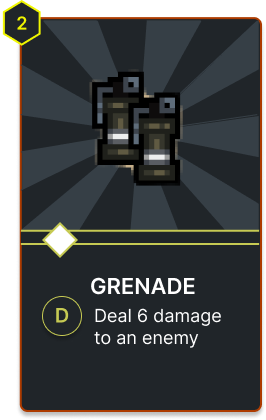
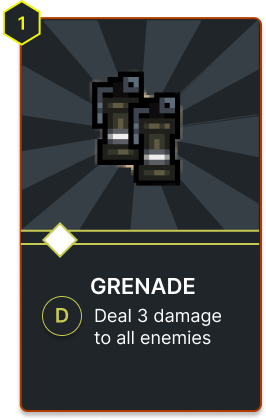
Feat: Damage cards function properly. Added all card sprites.

Changed region(s): [[0.4812, 0.7429, 0.8421, 0.8357], [0.0602, 0.031, 0.1203, 0.0929]]

diff --git a/public/scenes/BattleScene.js b/public/scenes/BattleScene.js
@@ -217,11 +217,13 @@ export class BattleScene extends Phaser.Scene {
     }
 
     damage_calculation(character, damage, modifiers) {
+        // list of 1 for empty modifiers
         for (let modifier of modifiers){
             damage = damage * modifier;
         }
         console.log(damage);
         character.health = character.health - damage;
+        console.log(character.health);
         character.setTint(0xff0000);
         let damage_num = this.add.text(0,0, "-" + damage, {color: "red", fontSize: "30px"});
         damage_num.setPosition(character.x + 40, character.y - 80);
@@ -235,27 +237,75 @@ export class BattleScene extends Phaser.Scene {
 
     loadCards() {
         // damage cards
-        let cannon = new DamageCard("cannon", 1, "damage", {damage: 3, target: "all"}, this, 0, 0, "cannon");
-        let grenade = new DamageCard("grenade", 2, "damage", {damage: 6, target: "single"}, this, 0, 0, "grenade");
+        let cannonball = new DamageCard("cannonball", 1, "damage", {damage: 10, target: "single"}, "blue", this, 0, 0, "cannonball");
+        let grenade = new DamageCard("grenade", 1, "damage", {damage: 3, target: "all"}, "white", this, 0, 0, "grenade");
+        let high_noon = new DamageCard("high_noon", 1, "damage", {damage: 5, target: "single"}, "white", this, 0, 0, "high_noon");
+        let fire_rain = new DamageCard("fire_rain", 3, "damage", {damage: 8, target: "random", randomAmount: 3, discard: 1}, "blue", this, 0, 0, "fire_rain");
+        let minigun = new DamageCard("minigun", 6, "damage", {damage: 4, target: "random", randomAmount: 8}, "orange", this, 0, 0, "minigun");
+        let launcher = new DamageCard("launcher", 2, "damage", {damage: 6, target: "all"}, "blue", this, 0, 0, "launcher");
+        let ballistic = new DamageCard("ballistic", 1, "damage", {damage: this.player.armour, target: "single"}, "white", this, 0, 0, "ballistic");
+        let reinforce = new DamageCard("reinforce", 2, "damage", {damage: 5, target: "single"}, "white", this, 0, 0, "reinforce");
+        let blast = new DamageCard("blast", 2, "damage", {damage: 10, target: "single", cards: 1}, "blue", this, 0, 0, "blast");
+        let missile = new DamageCard("missile", 3, "damage", {damage: 4, target: "random", randomAmount: 4}, "purple", this, 0, 0, "missile");
+        let molotov = new DamageCard("molotov", 3, "damage", {damage: 10, target: "all", discard: 1}, "purple", this, 0, 0, "molotov");
+
+        this.player.deckArray.push(cannonball);
+        this.player.deckArray.push(grenade);
+        this.player.deckArray.push(high_noon);
+        this.player.deckArray.push(fire_rain);
+        this.player.deckArray.push(minigun);
+        this.player.deckArray.push(launcher);
+        this.player.deckArray.push(ballistic);
+        this.player.deckArray.push(reinforce);
+        this.player.deckArray.push(blast);
+        this.player.deckArray.push(missile);
+        this.player.deckArray.push(molotov);
 
         // combo cards
-        let headshot = new ComboCard("headshot", 1, "combo", {target: "damage", effect: "doubles"}, this, 0, 0, "headshot");
-        
+        let headshot = new ComboCard("headshot", 1, "combo", {target: "damage", effect: "multiply", amount: 2}, "white", this, 0, 0, "headshot");
+        let ricochet = new ComboCard("ricochet", 1, "combo", {target: "damage", effect: "convert"}, "white", this, 0, 0, "ricochet");
+        let pinpoint = new ComboCard("pinpoint", 1, "combo", {target: "damage", effect: "multiply", amount: 3}, "blue", this, 0, 0, "pinpoint");
+        let bayonet = new ComboCard("bayonet", 2, "combo", {target: "damage", effect: "addition", amount: 6, sideEffects: -8}, "blue", this, 0, 0, "bayonet");
+        let load = new ComboCard("load", 2, "combo", {cards: 2, discard: 1}, "blue", this, 0, 0, "load");
+        let nanotech = new ComboCard("nanotech", 3, "combo", {target: "healing", effect: "multiply", amount: 2}, "purple", this, 0, 0, "nanotech");
+
+        this.player.deckArray.push(headshot);
+        this.player.deckArray.push(ricochet);
+        this.player.deckArray.push(pinpoint);
+        this.player.deckArray.push(bayonet);
+        this.player.deckArray.push(load);
+        this.player.deckArray.push(nanotech);
+       
         // reload cards
-        let reload = new ReloadCard("reload", 0, "reload", {amount: 2, sideEffects: null}, this, 0, 0, "reload");
-        let overload = new ReloadCard("overload", 0, "reload", {amount: 4, sideEffects: -15}, this, 0, 0, "overload");
+        let reload = new ReloadCard("reload", 0, "reload", {amount: 2}, "white", this, 0, 0, "reload");
+        let overload = new ReloadCard("overload", 0, "reload", {amount: 4, sideEffects: -10}, "purple", this, 0, 0, "overload");
+        let lock_and_load = new ReloadCard("lock_and_load", 0, "reload", {amount: 2, cards: 2}, "blue", this, 0, 0, "lock_and_load");
+        let bandolier = new ReloadCard("bandolier", 0, "reload", {amount: 4}, "blue", this, 0, 0, "bandolier");
+        let holster = new ReloadCard("holster", 0, "reload", {amount: 1, cards: 1}, "white", this, 0, 0, "holster");
+        let ammo_cache = new ReloadCard("ammo_cache", 0, "reload", {amount: 6}, "purple", this, 0, 0, "ammo_cache");
 
-        // healing cards
-        let medkit = new HealingCard("medkit", 0, "healing", {target: "health", amount: 3}, this, 0, 0, "medkit");
-        let kevlar = new HealingCard("kevlar", 1, "healing", {target: "armour", amount: 6}, this, 0, 0, "kevlar");
-
-        this.player.deckArray.push(cannon);
-        this.player.deckArray.push(grenade);
-        this.player.deckArray.push(headshot)
         this.player.deckArray.push(reload);
         this.player.deckArray.push(overload);
+        this.player.deckArray.push(bandolier);
+        this.player.deckArray.push(lock_and_load);
+        this.player.deckArray.push(holster);
+        this.player.deckArray.push(ammo_cache);
+
+        // healing cards
+        let medkit = new HealingCard("medkit", 0, "healing", {target: "health", amount: 7}, "white", this, 0, 0, "medkit");
+        let kevlar = new HealingCard("kevlar", 1, "healing", {target: "armour", amount: 6}, "white", this, 0, 0, "kevlar");
+        let stim_pack = new HealingCard("stim_pack", 1, "healing", {target: "health", amount: 14}, "white", this, 0, 0, "stim_pack");
+        let armour_plate = new HealingCard("armour_plate", 2, "healing", {target: "armour", amount: 10}, "blue", this, 0, 0, "armour_plate");
+        let bourbon = new HealingCard("bourbon", 2, "healing", {target: "health", amount: 30, discard: 1}, "purple", this, 0, 0, "bourbon");
+        let morphine = new HealingCard("morphine", 2, "healing", {target: "health", amount: 8, otherTarget: "armour", otherAmount: 8}, "blue", this, 0, 0, "morphine");
+
         this.player.deckArray.push(medkit);
         this.player.deckArray.push(kevlar);
+        this.player.deckArray.push(stim_pack)
+        this.player.deckArray.push(armour_plate);
+        this.player.deckArray.push(bourbon);
+        this.player.deckArray.push(morphine);
+    
     }
     
    
@@ -348,7 +398,6 @@ export class BattleScene extends Phaser.Scene {
         this.enemy.enemyList.push(hyena);
         this.enemy.enemyList.push(scorpion);
         this.enemy.enemyList.push(gorilla);
-
     }
     
     // spawning in enemies and their life

diff --git a/public/helpers/classes/cards/damageCard.js b/public/helpers/classes/cards/damageCard.js
@@ -1,10 +1,9 @@
-import { gameOptions, enemy } from "../../config.js";
 import HandCard from "./handCard.js";
 import { Tooltip } from "./toolTip.js";
 
 export default class DamageCard extends HandCard {
-    constructor(name, cost, cardType, effect, scene, x, y, sprite) {
-        super(name, cost, cardType, effect, scene, x, y, sprite);
+    constructor(name, cost, cardType, effect, rarity, scene, x, y, sprite) {
+        super(name, cost, cardType, effect, rarity, scene, x, y, sprite);
         this.tooltip = new Tooltip(scene, x+this.displayWidth, y, this.getLabel());
         scene.add.existing(this);
         this.cardInHand(scene);
@@ -16,22 +15,54 @@ export default class DamageCard extends HandCard {
 
     activateCard(scene) {
         let card = this;
-        if (this.effect.target == "single") {
-            for (let i=0; i < scene.enemy.enemyOnScene.length; i++) {
-                scene.enemy.enemyOnScene[i].once("pointerdown", function(pointer) {
-                    this.setHealth(this.getHealth() - card.effect.damage);
-                    this.heartText.setText(this.getHealth());
+        if (this.effect.target === "single") {
+            for (let enemy of scene.enemy.enemyOnScene) {
+                // remove event listener from enemy
+                enemy.removeListener("pointerdown", enemy.clickHandler);
 
-                    for (let j=0; j < scene.enemy.enemyOnScene.length; j++) {
-                        scene.enemy.enemyOnScene[j].input.enabled = false;
-                    }
-                })
+                // flag on enemy to keep track on whether it's being clicked
+                enemy.isBeingClicked = true;
+
+                // add the event listener back to the enemy
+                enemy.clickHandler = this.damageEnemy.bind(this, enemy, scene);
+                enemy.on("pointerdown", enemy.clickHandler);
             }
-        } else if (this.effect.target == "all") {
-            for (let i=0; i < scene.enemy.enemyOnScene.length; i++) {
-                scene.enemy.enemyOnScene[i].setHealth(scene.enemy.enemyOnScene[i].getHealth() - card.effect.damage);
-                scene.enemy.enemyOnScene[i].heartText.setText(scene.enemy.enemyOnScene[i].getHealth());
+
+        } else if (this.effect.target === "all") {
+            for (let enemy of scene.enemy.enemyOnScene) {
+                scene.damage_calculation(enemy, card.effect.damage, [1]);
             }
+
+        } else if (this.effect.target === "random") {
+            for (let i=0; i < this.effect.randomAmount; i++) {
+                let randomIndex = Math.floor(Math.random() * scene.enemy.enemyOnScene.length);
+                let randomEnemy = scene.enemy.enemyOnScene[randomIndex];
+
+                scene.time.delayedCall(250, scene.damage_calculation, [randomEnemy, this.effect.damage, [1]], scene);
+                // check if enemy died between each attack to update list
+            }
+        }
+        // check enemy dead here
+
+        if ("cards" in this.effect) {
+            scene.player.drawCard(this.effect.cards, scene);
+        }
+
+        if ("discard" in this.effect) {
+            scene.player.discardCard(this.effect.discard, scene);
+        }
+    }
+
+    damageEnemy(enemy, scene) {
+        if (enemy.isBeingClicked) {
+            scene.damage_calculation(enemy, this.effect.damage, [1]);
+            enemy.isBeingClicked = false;
+        }
+
+        for (let enemy of scene.enemy.enemyOnScene) {
+            enemy.isBeingClicked = false;
+            enemy.clickHandler = this.damageEnemy.bind(this, enemy, scene);
+            enemy.on("pointerdown", enemy.clickHandler);
         }
     }
 

diff --git a/public/scenes/BattleLoadScene.js b/public/scenes/BattleLoadScene.js
@@ -10,14 +10,43 @@ export class BattleLoadScene extends Phaser.Scene {
     }
 
     preload() {
-        // cards
-        this.load.image("cannon", "../assets/resources/cards/Cannon.png");
+        // damage
+        this.load.image("cannonball", "../assets/resources/cards/Cannonball.png");
         this.load.image("grenade", "../assets/resources/cards/Grenade.png");
-        this.load.image("headshot", "../assets/resources/cards/Headshot.png");
+        this.load.image("ballistic", "../assets/resources/cards/Ballistic.png");
+        this.load.image("blast", "../assets/resources/cards/Blast.png");
+        this.load.image("fire_rain", "../assets/resources/cards/Fire_Rain.png");
+        this.load.image("high_noon", "../assets/resources/cards/High_Noon.png");
+        this.load.image("launcher", "../assets/resources/cards/Launcher.png");
+        this.load.image("missile", "../assets/resources/cards/Missile.png");
+        this.load.image("molotov", "../assets/resources/cards/Molotov.png");
+        this.load.image("minigun", "../assets/resources/cards/Minigun.png");
+        this.load.image("reinforce", "../assets/resources/cards/Reinforce.png");
+
+        // healing
         this.load.image("kevlar", "../assets/resources/cards/Kevlar.png");
         this.load.image("medkit", "../assets/resources/cards/Medkit.png");
+        this.load.image("armour_plate", "../assets/resources/cards/Armour_plate.png");
+        this.load.image("stim_pack", "../assets/resources/cards/Stim_Pack.png");
+        this.load.image("morphine", "../assets/resources/cards/Morphine.png");
+        this.load.image("bourbon", "../assets/resources/cards/Bourbon.png");
+
+        // reload
         this.load.image("overload", "../assets/resources/cards/Overload.png");
         this.load.image("reload", "../assets/resources/cards/Reload.png");
+        this.load.image("ammo_cache", "../assets/resources/cards/Ammo_cache.png");
+        this.load.image("bandolier", "../assets/resources/cards/Bandolier.png");
+        this.load.image("holster", "../assets/resources/cards/Holster.png");
+        this.load.image("lock_and_load", "../assets/resources/cards/Lock_and_Load.png");
+
+        // combo
+        this.load.image("headshot", "../assets/resources/cards/Headshot.png");
+        this.load.image("bayonet", "../assets/resources/cards/Bayonet.png");
+        this.load.image("load", "../assets/resources/cards/Load.png");
+        this.load.image("pinpoint", "../assets/resources/cards/Pinpoint.png");
+        this.load.image("nanotech", "../assets/resources/cards/Nanotech.png");
+        this.load.image("ricochet", "../assets/resources/cards/Ricochet.png");
+
     }
 
     create() {

diff --git a/public/helpers/classes/player.js b/public/helpers/classes/player.js
@@ -67,8 +67,10 @@ export default class Player extends Phaser.GameObjects.Sprite {
         }
 
         // remove the indexes in reverse order not to mess up the loop
+        // pushes non-chosen cards to discard pile
         for (let index=indexList.length-1; index >= 0; index--) {
-            this.deckArray.push(this.handArray[indexList[index]]);
+            this.handArray[indexList[index]].angle = 0;
+            this.graveYardArray.push(this.handArray[indexList[index]]);
             this.handArray[indexList[index]].setVisible(false);
             this.handArray.splice(indexList[index], 1);
         }
@@ -93,6 +95,7 @@ export default class Player extends Phaser.GameObjects.Sprite {
     // draw an amount of cards
     drawCard(amountOfCards, scene) {
         for (let i=0; i < amountOfCards; i++) {
+            this.resetDeck(scene);
             let lastCard = this.deckTrackerArray.pop();
             lastCard.setActive(false).setVisible(false);
 
@@ -103,6 +106,17 @@ export default class Player extends Phaser.GameObjects.Sprite {
         }
     }
 
+    discardCard(amountOfCards, scene) {
+        for (let i=0; i < amountOfCards; i++) {
+            let randomIndex = Math.floor(Math.random() * this.handArray.length); 
+            let randomCard = this.handArray[randomIndex];
+
+            randomCard.setActive(false).setVisible(false);
+            this.handArray.splice(randomIndex, 1);
+            this.graveYardArray.push(randomCard);
+            scene.arrangeCardsInCenter(this.handArray);
+        }
+    }
 
     disableDragOnCards() {
         for (let i=0; i < this.handArray.length; i++) {

diff --git a/public/helpers/classes/cards/handCard.js b/public/helpers/classes/cards/handCard.js
@@ -2,14 +2,16 @@ import { gameOptions } from "../../config.js";
 
 // Cards that appear in the player's hand
 export default class HandCard extends Phaser.GameObjects.Sprite {
-    constructor(name, cost, cardType, effect, scene, x, y, sprite) {
+    constructor(name, cost, cardType, effect, rarity, scene, x, y, sprite) {
         super(scene, x, y, sprite);
         this.name = name;
         this.cost = cost;
         this.effect = effect;
         this.cardType = cardType;
+        this.rarity = rarity
     }
 
+    // edits card's appearances in hand
     cardInHand(scene) {
         this.visible = !this.visible;
         this.setInteractive();

diff --git a/public/helpers/classes/cards/healingCard.js b/public/helpers/classes/cards/healingCard.js
@@ -1,10 +1,9 @@
-import { gameOptions, enemy } from "../../config.js";
 import HandCard from "./handCard.js";
 import { Tooltip } from "./toolTip.js";
 
 export default class HealingCard extends HandCard {
-    constructor(name, cost, cardType, effect, scene, x, y, sprite) {
-        super(name, cost, cardType, effect, scene, x, y, sprite);
+    constructor(name, cost, cardType, effect, rarity, scene, x, y, sprite) {
+        super(name, cost, cardType, effect, rarity, scene, x, y, sprite);
         this.tooltip = new Tooltip(scene, x+this.displayWidth, y, this.getLabel());
         scene.add.existing(this);
         this.cardInHand(scene);

diff --git a/public/helpers/classes/cards/reloadCard.js b/public/helpers/classes/cards/reloadCard.js
@@ -1,10 +1,9 @@
-import { gameOptions, enemy } from "../../config.js";
 import HandCard from "./handCard.js";
 import { Tooltip } from "./toolTip.js";
 
 export default class ReloadCard extends HandCard {
-    constructor(name, cost, cardType, effect, scene, x, y, sprite) {
-        super(name, cost, cardType, effect, scene, x, y, sprite);
+    constructor(name, cost, cardType, effect, rarity, scene, x, y, sprite) {
+        super(name, cost, cardType, effect, rarity, scene, x, y, sprite);
         this.tooltip = new Tooltip(scene, x+this.displayWidth, y, this.getLabel());
         scene.add.existing(this);
         this.cardInHand(scene);

diff --git a/public/helpers/classes/cards/comboCard.js b/public/helpers/classes/cards/comboCard.js
@@ -1,10 +1,9 @@
-import { gameOptions, enemy } from "../../config.js";
 import HandCard from "./handCard.js";
 import { Tooltip } from "./toolTip.js";
 
 export default class ComboCard extends HandCard {
-    constructor(name, cost, cardType, effect, scene, x, y, sprite) {
-        super(name, cost, cardType, effect, scene, x, y, sprite);
+    constructor(name, cost, cardType, effect, rarity, scene, x, y, sprite) {
+        super(name, cost, cardType, effect, rarity, scene, x, y, sprite);
         this.tooltip = new Tooltip(scene, x+this.displayWidth, y, this.getLabel());
         scene.add.existing(this);
         this.cardInHand(scene);

diff --git a/public/main.js b/public/main.js
@@ -22,7 +22,7 @@ import {DiscardPileScene} from "./scenes/DiscardPileScene.js"
 let game = new Phaser.Game({
     width: 1000,
     height: 800,
-    scale: { parent: 'phaser-container', mode: Phaser.Scale.FIT, autoCenter: Phaser.Scale.CENTER_BOTH },
+    scale: { parent: 'phaser-container', mode: Phaser.Scale.NONE, autoCenter: Phaser.Scale.CENTER_BOTH },
     scene:[
         LoadScene, MenuScene, OptionsScene, CreditsScene, JoinGameScene, CreateGameScene, LobbyScene, friendScene, MapScene, BattleScene, BattleLoadScene, DiscardPileScene
     ],

diff --git a/public/helpers/config.js b/public/helpers/config.js
@@ -13,11 +13,3 @@ export const cardBackDimensions = {
     backHeight: 205
 }
 
-export const enemy = {
-    spriteWidth: 73.3,
-    spriteHeight: 103,
-    numberOfSprites: 3,
-    enemyList: [],
-    enemyOnScene: []
-}
-
